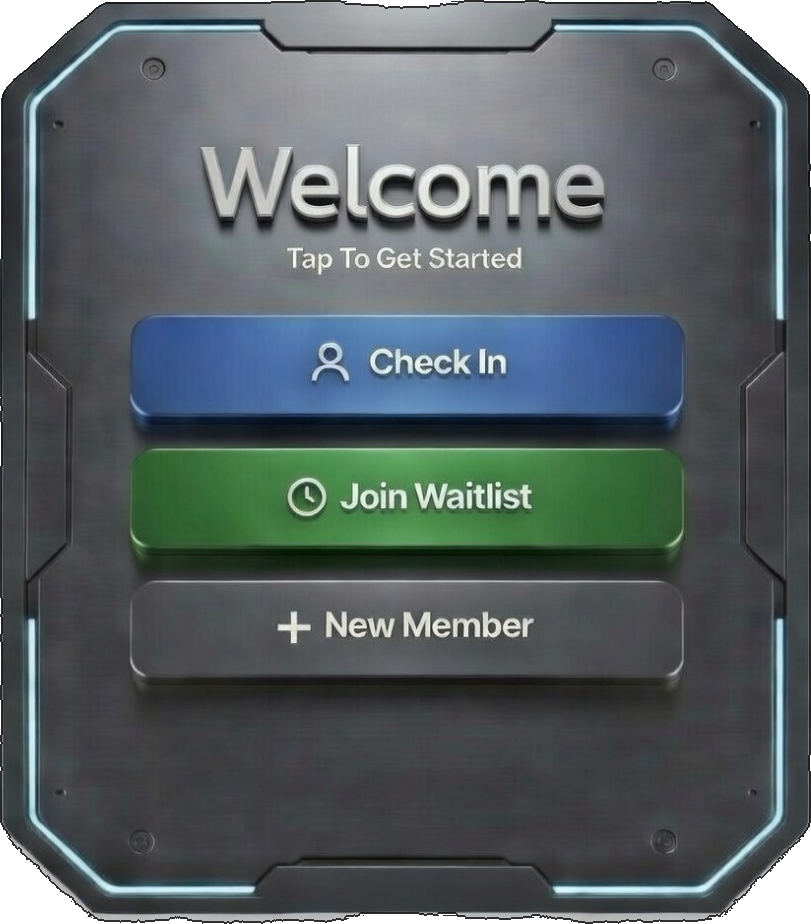
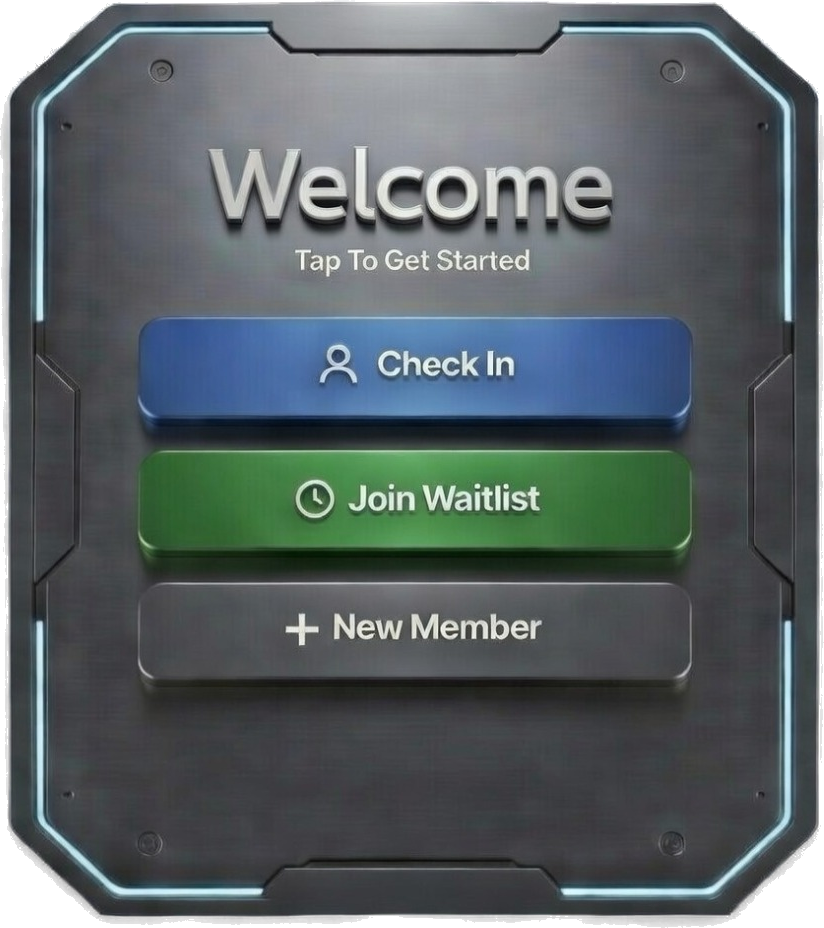
fix: v26 kiosk — alpha matte + mathematical white decontamination, pixel-certified zero white edge pixels

diff --git a/pages/commander/kiosk.js b/pages/commander/kiosk.js
@@ -441,7 +441,7 @@ export default function MembershipKiosk() {
             <div style={{ position: 'relative', maxWidth: '90%', maxHeight: '90%', display: 'flex' }}>
               {/* Background Image — PNG with transparent background */}
               <img
-                src="/images/commander/kiosk-welcome.png?v=25"
+                src="/images/commander/kiosk-welcome.png?v=26"
                 alt="Welcome Kiosk"
                 style={{
                   width: '100%',
